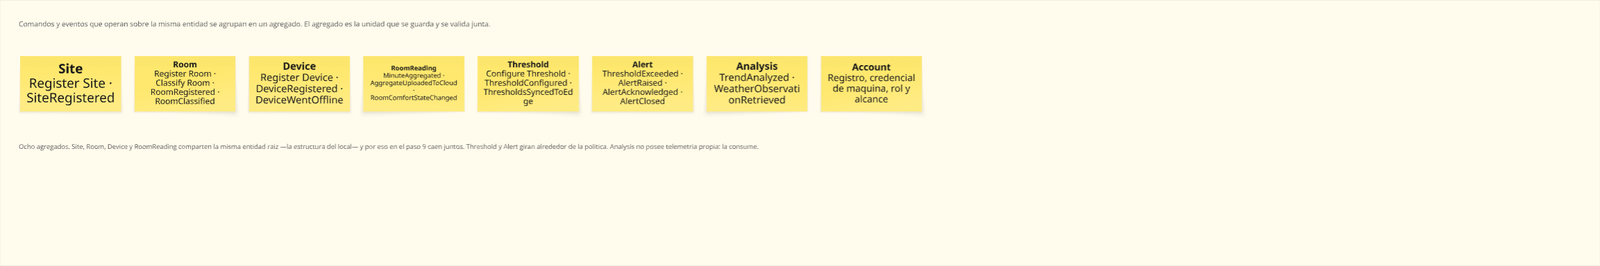
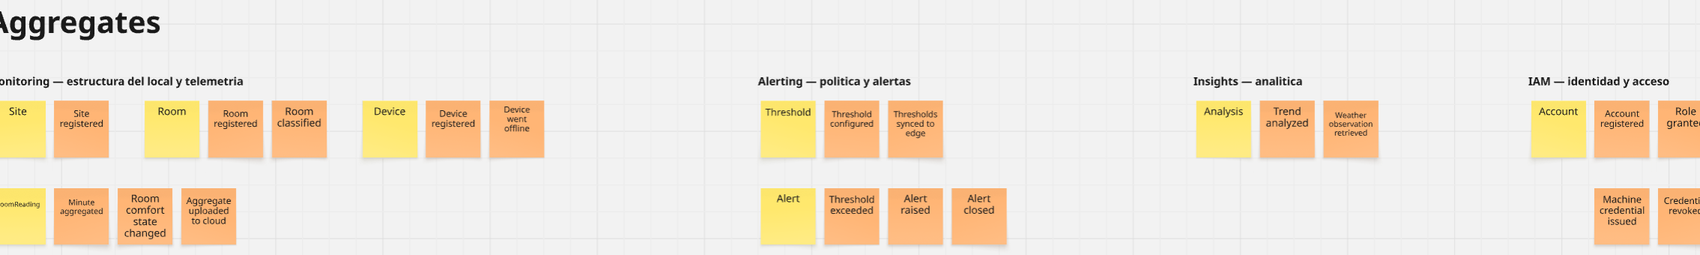
fix(chapter-4): rehacer el EventStorming siguiendo el modelo de referencia
Las capturas anteriores no seguian la estructura del informe de
referencia del curso. Diferencias corregidas, contrastadas contra el
board del equipo EcoDrop:

- El modelo es ACUMULATIVO: cada paso conserva lo anterior y añade un
  color encima. Antes cada paso se mostraba aislado, lo que rompia la
  lectura del proceso.
- Cada comando azul va PEGADO al evento naranja que produce. Antes era
  una fila de comandos con el evento solo nombrado en texto.
- Agrupacion por subdominio con subtitulo propio (Monitoring, Alerting,
  Insights, IAM), no por fase temporal.
- El paso 9 encierra cada cluster con su frontera dibujada encima, con
  la clasificacion estrategica rotulada.
- Titulo grande sobre el lienzo en vez de titulo de frame, sin fondos
  de color ni parrafos explicativos dentro del board.

Ademas se iguala el tamaño de letra de las 279 stickies. Un sticky de
Miro no admite fontSize: la herramienta autoajusta el texto al alto de
la caja, de modo que un texto corto salia enorme y uno largo diminuto.
Se resuelve igualando el numero de lineas renderizadas.

4.1.1.1 deja de repetir capturas ya mostradas y cita por numero las
figuras de los pasos que sustentan cada tecnica. Figuras renumeradas a
2-39, sin huecos ni duplicados.

diff --git a/README.md b/README.md
@@ -1312,19 +1312,11 @@ A partir del EventStorm ya refinado, el equipo realizó una sesión específica 
 
 **1. Start-with-Value**
 
-Se empezó clasificando por aporte al negocio. `Monitoring` es core porque sin medición objetiva no hay producto que vender, e `Insights` también lo es porque es lo que separa la solución de un termómetro con memoria. `Alerting` es supporting: necesario para que la medición sirva de algo, pero no es donde reside la ventaja competitiva. `IAM` es un subdominio genérico, con el problema ya resuelto en la industria.
-
-<p align="center"><img src="assets/event-storming/design-level/ccd-1-start-with-value.png" alt="Candidate Context Discovery — Start-with-Value" width="1000"></p>
-
-<p align="center"><em>Figura 19.</em> Clasificación de los contextos candidatos por su aporte al negocio.</p>
+Se empezó clasificando por aporte al negocio. `Monitoring` es core porque sin medición objetiva no hay producto que vender, e `Insights` también lo es porque es lo que separa la solución de un termómetro con memoria. `Alerting` es supporting: necesario para que la medición sirva de algo, pero no es donde reside la ventaja competitiva. `IAM` es un subdominio genérico, con el problema ya resuelto en la industria. La clasificación resultante es la que rotula cada frontera en la Figura 18.
 
 **2. Start-with-Simple**
 
-Para no perderse en la complejidad, se descompuso el recorrido en seis pasos secuenciales —medir, agregar, comparar con la política, avisar, responder y explicar— y se preguntó a quién corresponde cada uno. Medir y agregar pertenecen a quien posee la estructura del local; comparar y avisar dependen de una política que alguien configura por separado; explicar necesita historia acumulada y no el instante. Tres responsabilidades que no cambian por las mismas razones.
-
-<p align="center"><img src="assets/event-storming/design-level/ccd-2-start-with-simple.png" alt="Candidate Context Discovery — Start-with-Simple" width="1000"></p>
-
-<p align="center"><em>Figura 20.</em> Descomposición del recorrido en pasos secuenciales simples.</p>
+Para no perderse en la complejidad, se descompuso el recorrido en seis pasos secuenciales —medir, agregar, comparar con la política, avisar, responder y explicar— y se preguntó a quién corresponde cada uno. Medir y agregar pertenecen a quien posee la estructura del local; comparar y avisar dependen de una política que alguien configura por separado; explicar necesita historia acumulada y no el instante. Tres responsabilidades que no cambian por las mismas razones, y que en la Figura 11 ya aparecen separadas en columnas.
 
 **3. Look-for-Pivotal-Events**
 
@@ -1335,19 +1327,13 @@ Los pivotal events marcados en el paso 3 se leyeron como fronteras, citando en c
 - `ThresholdExceeded` — frontera entre `Alerting` y `Monitoring`: la medición pasa a ser política incumplida.
 - `TrendAnalyzed` — frontera entre `Monitoring` e `Insights`: la serie deja de ser dato y pasa a ser conclusión.
 
-<p align="center"><img src="assets/event-storming/design-level/ccd-3-look-for-pivotal-events.png" alt="Candidate Context Discovery — Look-for-Pivotal-Events" width="1000"></p>
-
-<p align="center"><em>Figura 21.</em> Pivotal events leídos como fronteras entre contextos.</p>
+Los cinco quedan marcados sobre la línea temporal en la Figura 12.
 
 `AggregateUploadedToCloud` se descartó como frontera de modelo. Separa dos zonas de despliegue del mismo contexto, no dos lenguajes distintos, y tratarlo como bounded context habría creado uno que el nivel táctico no necesita desarrollar.
 
 **Agrupamientos y consolidación**
 
-El primer agrupamiento reunió lo evidente: `IAM` alrededor de `Account` y `Alerting` alrededor de `Threshold` y `Alert`. El segundo aisló los contextos centrales, y fue el que más discusión costó, porque `Monitoring` e `Insights` hablan ambos de lecturas. Se separaron por dos razones: cambian por motivos distintos —uno por cómo se captura el dato, otro por cómo se interpreta— y `Insights` puede estar caído sin que la medición se detenga.
-
-<p align="center"><img src="assets/event-storming/design-level/ccd-4-agrupamientos-consolidacion.png" alt="Candidate Context Discovery — agrupamientos y consolidación" width="1000"></p>
-
-<p align="center"><em>Figura 22.</em> Agrupamientos sucesivos y consolidación en cuatro bounded contexts.</p>
+El primer agrupamiento reunió lo evidente: `IAM` alrededor de `Account` y `Alerting` alrededor de `Threshold` y `Alert`. El segundo aisló los contextos centrales, y fue el que más discusión costó, porque `Monitoring` e `Insights` hablan ambos de lecturas. Se separaron por dos razones: cambian por motivos distintos —uno por cómo se captura el dato, otro por cómo se interpreta— y `Insights` puede estar caído sin que la medición se detenga. El resultado de ambas rondas es el que encierra cada frontera en la Figura 18.
 
 La consolidación final deja **cuatro bounded contexts** —`Monitoring`, `Insights`, `Alerting` e `IAM`—, que son exactamente los que desarrolla el nivel táctico en el apartado 4.2.
 
@@ -1360,7 +1346,7 @@ Identificados los contextos, la pregunta deja de ser qué hace cada uno y pasa a
 
 <p align="center"><img src="assets/domain-storytelling/ds-1-disconfort-acustico.png" alt="Domain Storytelling — disconfort acústico" width="1000"></p>
 
-<p align="center"><em>Figura 23.</em> Domain Storytelling del escenario de disconfort acústico.</p>
+<p align="center"><em>Figura 19.</em> Domain Storytelling del escenario de disconfort acústico.</p>
 
 El flujo deja ver tres decisiones de reparto. La primera es que **el Edge evalúa los umbrales, no el cloud**: consulta los límites y decide localmente, de modo que una caída de internet no deja la sala sin vigilancia. La segunda es que `Monitoring` es el único que recibe telemetría y el único al que los demás preguntan, lo que lo convierte en el proveedor del que dependen `Alerting` e `Insights`. La tercera es que el administrador recorre tres contextos en una sola tarea —ve el estado, entiende la causa, ajusta la política—, y esa continuidad obliga a que las fronteras sean invisibles para él aunque sean estrictas por dentro.
 
@@ -1368,7 +1354,7 @@ El flujo deja ver tres decisiones de reparto. La primera es que **el Edge evalú
 
 <p align="center"><img src="assets/domain-storytelling/ds-2-alta-de-local.png" alt="Domain Storytelling — alta de un local" width="1000"></p>
 
-<p align="center"><em>Figura 24.</em> Domain Storytelling del escenario de instalación de un local.</p>
+<p align="center"><em>Figura 20.</em> Domain Storytelling del escenario de instalación de un local.</p>
 
 La instalación recorre los tres contextos que el administrador toca: `IAM` para las credenciales propias y la clave de máquina del dispositivo, `Monitoring` para la estructura del local, y `Alerting` para la política. El paso de clasificar cada sala es el que evita el pain point de la sala sin vigilancia; si se omite, la política de umbral por defecto la cubre igualmente, lo que hace que el sistema nunca quede ciego por un olvido en la instalación.
 
@@ -1376,7 +1362,7 @@ La instalación recorre los tres contextos que el administrador toca: `IAM` para
 
 <p align="center"><img src="assets/domain-storytelling/ds-3-perdida-de-conexion.png" alt="Domain Storytelling — pérdida de conexión" width="1000"></p>
 
-<p align="center"><em>Figura 25.</em> Domain Storytelling del escenario de pérdida de conexión del Edge.</p>
+<p align="center"><em>Figura 21.</em> Domain Storytelling del escenario de pérdida de conexión del Edge.</p>
 
 Este escenario es el que justifica tres decisiones de diseño a la vez. El Edge conserva los umbrales en caché y mantiene la vigilancia local mientras no hay internet; el agregado que no consigue subir se encola en lugar de descartarse; y, como la entrega es at-least-once, la deduplicación por sala y minuto corresponde a quien recibe. El testamento de desconexión del broker es lo que permite distinguir una sala silenciosa de un dispositivo caído, que era el primero de los pain points sin resolver.
 
@@ -1474,7 +1460,7 @@ flowchart TB
     iam --- sha
 ```
 
-<p align="center"><em>Figura 26.</em> Context map de la solución, con el patrón que gobierna cada relación.</p>
+<p align="center"><em>Figura 22.</em> Context map de la solución, con el patrón que gobierna cada relación.</p>
 
 **Anti-corruption Layer.** Es el patrón que protege las tres dependencias salientes. `insights` y `alerting` no conocen el modelo de `monitoring`: declaran puertos con su propio vocabulario —`ReadingSeriesProvider` pide una serie de `ReadingPoint`, `RoomProfileProvider` pide una lista de `RoomProfile`— y un único componente traduce. La sala de `monitoring` tiene aforo, planta, superficie y última lectura; en `alerting` una sala es un código y un tipo, y nada más. Esa reducción es la que impide que un cambio en el modelo del proveedor se propague a sus consumidores. El mismo patrón aísla a `insights` de OpenWeather: `OutdoorWeatherProvider` expresa la necesidad de clima exterior, y el adaptador absorbe el formato del proveedor.
 
@@ -1528,7 +1514,7 @@ flowchart TB
     sistema -->|"se distribuye a través de"| stores
 ```
 
-<p align="center"><em>Figura 27.</em> System Landscape Diagram de la solución ZenRoom.</p>
+<p align="center"><em>Figura 23.</em> System Landscape Diagram de la solución ZenRoom.</p>
 
 Los tres actores se corresponden con los segmentos objetivo del capítulo I. El visitante no es un usuario del producto sino del Landing Page, y se incluye porque la conversión forma parte del alcance evaluado. OpenWeather es el servicio externo de terceros que la arquitectura de la solución exige consumir, y sostiene la correlación entre temperatura interior y exterior.
 
@@ -1556,7 +1542,7 @@ flowchart TB
     sistema -->|"solicita las condiciones exteriores<br/>[HTTPS/JSON]"| ow
 ```
 
-<p align="center"><em>Figura 28.</em> Software Architecture Context Level Diagram.</p>
+<p align="center"><em>Figura 24.</em> Software Architecture Context Level Diagram.</p>
 
 Desde fuera, el sistema es una sola cosa que responde a tres preguntas: si una sala está en condiciones ahora, por qué no lo está cuando falla, y qué hay que cambiar para que deje de fallar. El único sistema externo del que depende es el proveedor meteorológico, y esa dependencia es degradable: si no responde, la solución sigue funcionando y solo pierde la correlación con el exterior.
 
@@ -1608,7 +1594,7 @@ flowchart TB
     landing -.->|"deriva por segmento"| mobile
 ```
 
-<p align="center"><em>Figura 29.</em> Software Architecture Container Level Diagram.</p>
+<p align="center"><em>Figura 25.</em> Software Architecture Container Level Diagram.</p>
 
 El reparto entre las tres capas responde a tres restricciones distintas. El **dispositivo** calcula los indicadores acústicos en el propio microcontrolador porque el audio no puede salir de la sala. El **Edge** agrega por minuto y evalúa los umbrales localmente, de modo que una caída de internet no deja el local sin vigilancia, y encola lo que no ha podido subir. El **cloud** guarda la historia larga y resuelve lo que exige varias salas o varias semanas, que es donde vive la analítica.
 
@@ -1658,7 +1644,7 @@ flowchart TB
     disp_mov -->|"HTTPS/JSON"| cont_api
 ```
 
-<p align="center"><em>Figura 30.</em> Software Architecture Deployment Diagram del entorno de desarrollo.</p>
+<p align="center"><em>Figura 26.</em> Software Architecture Deployment Diagram del entorno de desarrollo.</p>
 
 La aplicación se empaqueta con un `Dockerfile` de dos etapas: la primera compila con el JDK 21 y resuelve las dependencias en una capa separada del código fuente, de modo que un cambio en el código no obliga a volver a descargarlas; la segunda parte de una imagen de solo ejecución y copia únicamente el artefacto, ejecutándolo con un usuario sin privilegios. La memoria se limita por porcentaje del contenedor en lugar de por un valor fijo, para que la misma imagen sirva en máquinas distintas.
 
@@ -1792,7 +1778,7 @@ flowchart TB
     repo -->|"JDBC"| db
 ```
 
-<p align="center"><em>Figura 31.</em> Diagrama de componentes del bounded context Alerting dentro del container cloud-api.</p>
+<p align="center"><em>Figura 27.</em> Diagrama de componentes del bounded context Alerting dentro del container cloud-api.</p>
 
 El contexto expone dos controladores porque atiende a dos consumidores con necesidades distintas. El administrador configura umbrales **por tipo de sala**, que es como se razona el negocio: todas las cabinas de llamadas comparten límite. El Edge, en cambio, evalúa **por sala concreta** y no conoce la taxonomía de tipos, de modo que `ResolveRoomThresholdsUseCaseImpl` hace la traducción y cachea por tipo para no repetir la consulta una vez por sala. `ExternalMonitoringService` es el único componente que conoce la existencia de `monitoring`, y lo hace a través de su fachada, nunca de sus repositorios.
 
@@ -1889,7 +1875,7 @@ classDiagram
     RoomProfileProvider ..> RoomProfile : entrega
 ```
 
-<p align="center"><em>Figura 32.</em> Diagrama de clases del Domain Layer del bounded context Alerting.</p>
+<p align="center"><em>Figura 28.</em> Diagrama de clases del Domain Layer del bounded context Alerting.</p>
 
 `Threshold` es a la vez entidad y raíz de agregado: no contiene entidades hijas, y su identidad y su tipo de sala son inmutables, porque cambiar cualquiera de los dos significa que el umbral es otro. Los métodos `isBreachedBy` e `isCriticalFor` responden únicamente por el valor; la comprobación de que el incumplimiento se sostenga durante `sustainedMinutes` no vive en la entidad, ya que un umbral conoce su propio límite pero no la serie temporal que lo pone a prueba.
 
@@ -1925,7 +1911,7 @@ erDiagram
     }
 ```
 
-<p align="center"><em>Figura 33.</em> Diagrama de base de datos del bounded context Alerting.</p>
+<p align="center"><em>Figura 29.</em> Diagrama de base de datos del bounded context Alerting.</p>
 
 La columna `room_type_id` es la única referencia de la tabla y **no lleva clave foránea**, a diferencia del resto del modelo de datos de la solución. La tabla a la que apunta, `room_type`, pertenece al esquema `monitoring`, y declarar una restricción física entre ambos esquemas ataría los dos bounded contexts a nivel de base de datos: cualquier cambio en la estructura de salas obligaría a coordinar un despliegue conjunto, y el límite entre contextos dejaría de ser real. La integridad se mantiene en la capa de aplicación, a través del puerto `RoomProfileProvider` descrito en el Domain Layer, que es la única vía por la que este contexto conoce las salas.
 
@@ -2072,7 +2058,7 @@ flowchart TB
     repos -->|"JDBC"| db
 ```
 
-<p align="center"><em>Figura 34.</em> Diagrama de componentes del bounded context IAM dentro del container cloud-api.</p>
+<p align="center"><em>Figura 30.</em> Diagrama de componentes del bounded context IAM dentro del container cloud-api.</p>
 
 Los dos caminos de autenticación conviven en la misma cadena de filtros y terminan en el mismo modelo de dominio, pero no comparten mecanismo de verificación. La persona presenta correo y contraseña una vez y recibe un token firmado que acompaña a las peticiones siguientes; la máquina presenta su clave en cada petición, y por eso su hash debe ser determinista e indexable. Esa asimetría es la que justifica que `BCryptPasswordHasher` y `Sha256ApiKeyHasher` sean componentes distintos y no dos usos de uno solo.
 
@@ -2206,7 +2192,7 @@ classDiagram
     ApiKeyHasher ..> ApiCredential : verifica la clave de
 ```
 
-<p align="center"><em>Figura 35.</em> Diagrama de clases del Domain Layer del bounded context IAM.</p>
+<p align="center"><em>Figura 31.</em> Diagrama de clases del Domain Layer del bounded context IAM.</p>
 
 La separación entre persona y máquina no es cosmética: determina cómo se guarda cada secreto. La contraseña de una persona se cifra con un algoritmo lento y con sal, de modo que dos cuentas con la misma contraseña producen hashes distintos; la clave del Edge, en cambio, se reduce a un hash determinista, porque el sistema necesita localizar la credencial a partir de la clave que llega en cada petición, y eso exige una columna indexable. Esa diferencia justifica que existan dos puertos, `PasswordHasher` y `ApiKeyHasher`, en lugar de uno solo.
 
@@ -2259,7 +2245,7 @@ erDiagram
     }
 ```
 
-<p align="center"><em>Figura 36.</em> Diagrama de base de datos del bounded context IAM.</p>
+<p align="center"><em>Figura 32.</em> Diagrama de base de datos del bounded context IAM.</p>
 
 Las dos tablas de unión llevan clave primaria compuesta —`(user_id, role)` y `(credential_id, scope)`—, lo que impide conceder dos veces el mismo permiso sin necesidad de una restricción adicional, y se borran en cascada con su identidad: un rol sin persona a la que pertenecer no significa nada.
 
@@ -2389,7 +2375,7 @@ flowchart TB
     repo -->|"JDBC"| db
 ```
 
-<p align="center"><em>Figura 37.</em> Diagrama de componentes del bounded context Insights dentro del container cloud-api.</p>
+<p align="center"><em>Figura 33.</em> Diagrama de componentes del bounded context Insights dentro del container cloud-api.</p>
 
 Este contexto es el que consume el **servicio externo de terceros** exigido por la arquitectura de la solución. La correlación entre temperatura interior y exterior solo puede calcularse hacia atrás si el histórico exterior existe, y OpenWeather sirve el clima actual, no el pasado; por eso `OutdoorWeatherSampler` acumula observaciones periódicamente en lugar de consultarlas en el momento del análisis. Si el servicio externo no responde, la analítica se degrada de forma controlada: el resto de indicadores se calcula igual y solo la correlación interior-exterior se declara sin datos suficientes.
 
@@ -2513,7 +2499,7 @@ classDiagram
     WeatherObservationRepository ..> WeatherObservation : persiste
 ```
 
-<p align="center"><em>Figura 38.</em> Diagrama de clases del Domain Layer del bounded context Insights.</p>
+<p align="center"><em>Figura 34.</em> Diagrama de clases del Domain Layer del bounded context Insights.</p>
 
 `Correlation` y `Trend` comparten un rasgo que ordena todo el contexto: **ninguna conclusión viaja sin su tamaño de muestra**. Ambos exponen `isReliable()` y un constructor estático `insufficientData`, de modo que la falta de datos es un resultado legítimo y no una excepción. Un coeficiente de correlación calculado sobre cinco minutos de lecturas es aritméticamente válido y estadísticamente inútil; obligar a que el valor viaje acompañado del número de muestras impide presentarlo como si significara algo. Por eso `Correlation.strength()` devuelve `insufficient_data` antes que una etiqueta cualitativa cuando no se alcanza el mínimo de treinta observaciones.
 
@@ -2537,7 +2523,7 @@ erDiagram
     }
 ```
 
-<p align="center"><em>Figura 39.</em> Diagrama de base de datos del bounded context Insights.</p>
+<p align="center"><em>Figura 35.</em> Diagrama de base de datos del bounded context Insights.</p>
 
 La tabla no guarda ninguna referencia a salas ni a locales, y es deliberado: el clima exterior no pertenece a ninguna sala en particular, sino al momento. La correlación entre temperatura interior y exterior se resuelve en la capa de aplicación, emparejando cada observación con la lectura más próxima en el tiempo a través del puerto `ReadingSeriesProvider`. Persistir aquí una clave de `monitoring` ataría los dos contextos sin ganar nada.
 
@@ -2673,7 +2659,7 @@ flowchart TB
     repos -->|"JDBC"| db
 ```
 
-<p align="center"><em>Figura 40.</em> Diagrama de componentes del bounded context Monitoring dentro del container cloud-api.</p>
+<p align="center"><em>Figura 36.</em> Diagrama de componentes del bounded context Monitoring dentro del container cloud-api.</p>
 
 `ReadingsController` es el único punto por el que entra telemetría, y `IngestReadingsUseCaseImpl` concentra las tres responsabilidades que hacen tolerante la ingesta: deduplica por sala y minuto, porque el Edge entrega con garantía *at-least-once*; autoprovisiona la sala y el dispositivo cuando reportan por primera vez, de modo que instalar un módulo no exige configurar nada por adelantado; y refleja el estado del dispositivo descartando los lotes que llegan fuera de orden.
 
@@ -2812,7 +2798,7 @@ classDiagram
     RoomReading "1" *-- "1" DataQuality : quality
 ```
 
-<p align="center"><em>Figura 41.</em> Modelo del Domain Layer del bounded context Monitoring.</p>
+<p align="center"><em>Figura 37.</em> Modelo del Domain Layer del bounded context Monitoring.</p>
 
 ```mermaid
 classDiagram
@@ -2886,7 +2872,7 @@ classDiagram
     RoomReadingRepository ..> RoomReading : persiste
 ```
 
-<p align="center"><em>Figura 42.</em> Puertos de persistencia y catálogo de errores del bounded context Monitoring.</p>
+<p align="center"><em>Figura 38.</em> Puertos de persistencia y catálogo de errores del bounded context Monitoring.</p>
 
 `RoomReading` compone cinco value objects en lugar de aplanar veinte campos sueltos, y cada uno responde por una dimensión del confort con su propio vocabulario: `AcousticMetrics` expone `backgroundNoise()` e `intrusivePeaks()`, que devuelven los percentiles L90 y L10 de la norma ISO 1996 bajo el nombre que usa el negocio; `ThermalComfort` conoce el umbral de PPD del 10 % que la norma ASHRAE 55 considera aceptable. Los cinco ofrecen un constructor estático para el caso vacío —`empty()`, `vacant()`, `unknown()`—, de modo que una lectura a la que le falta un sensor se representa sin recurrir a valores nulos dispersos por el agregado.
 
@@ -2990,7 +2976,7 @@ erDiagram
     }
 ```
 
-<p align="center"><em>Figura 43.</em> Diagrama de base de datos del bounded context Monitoring.</p>
+<p align="center"><em>Figura 39.</em> Diagrama de base de datos del bounded context Monitoring.</p>
 
 Las cuatro tablas de estructura llevan auditoría completa y borrado lógico porque las edita una persona. **`room_reading` no lleva ninguna de esas columnas, y es deliberado**: es telemetría inmutable generada por máquina, nadie edita ni borra la lectura de un sensor, y esas cinco columnas estarían vacías en cientos de miles de filas. Su trazabilidad es el par `ts` y `received_at` —el minuto que describe frente al instante en que llegó—, cuya diferencia delata cortes de red y relojes desincronizados en el dispositivo.
 
